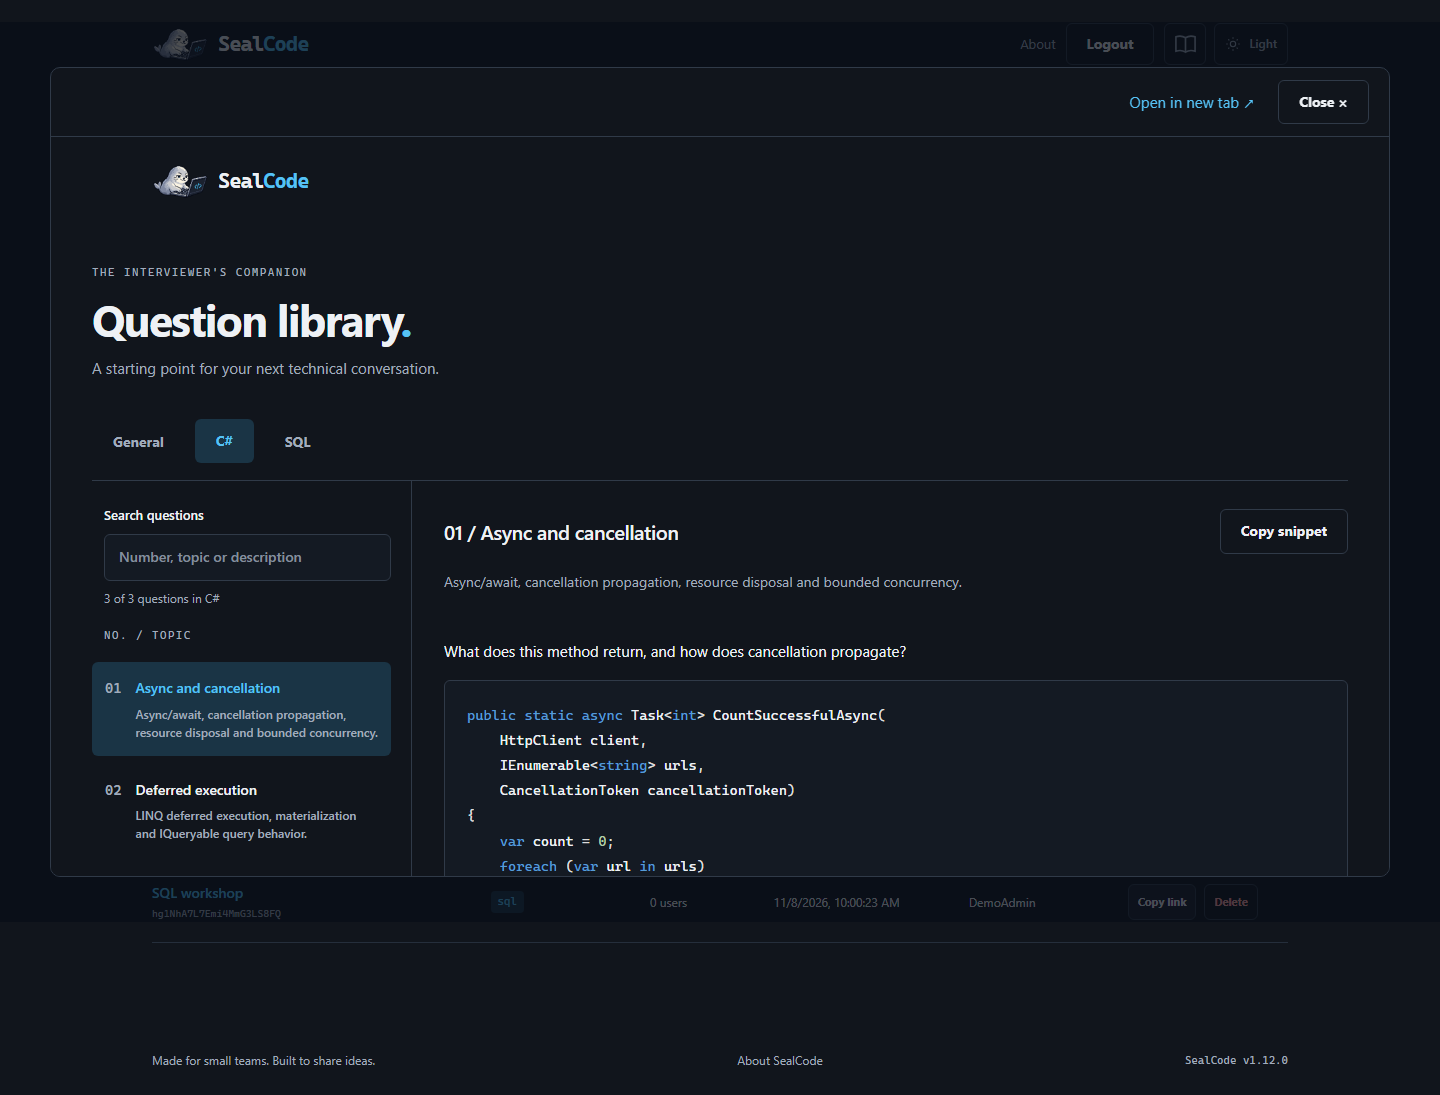
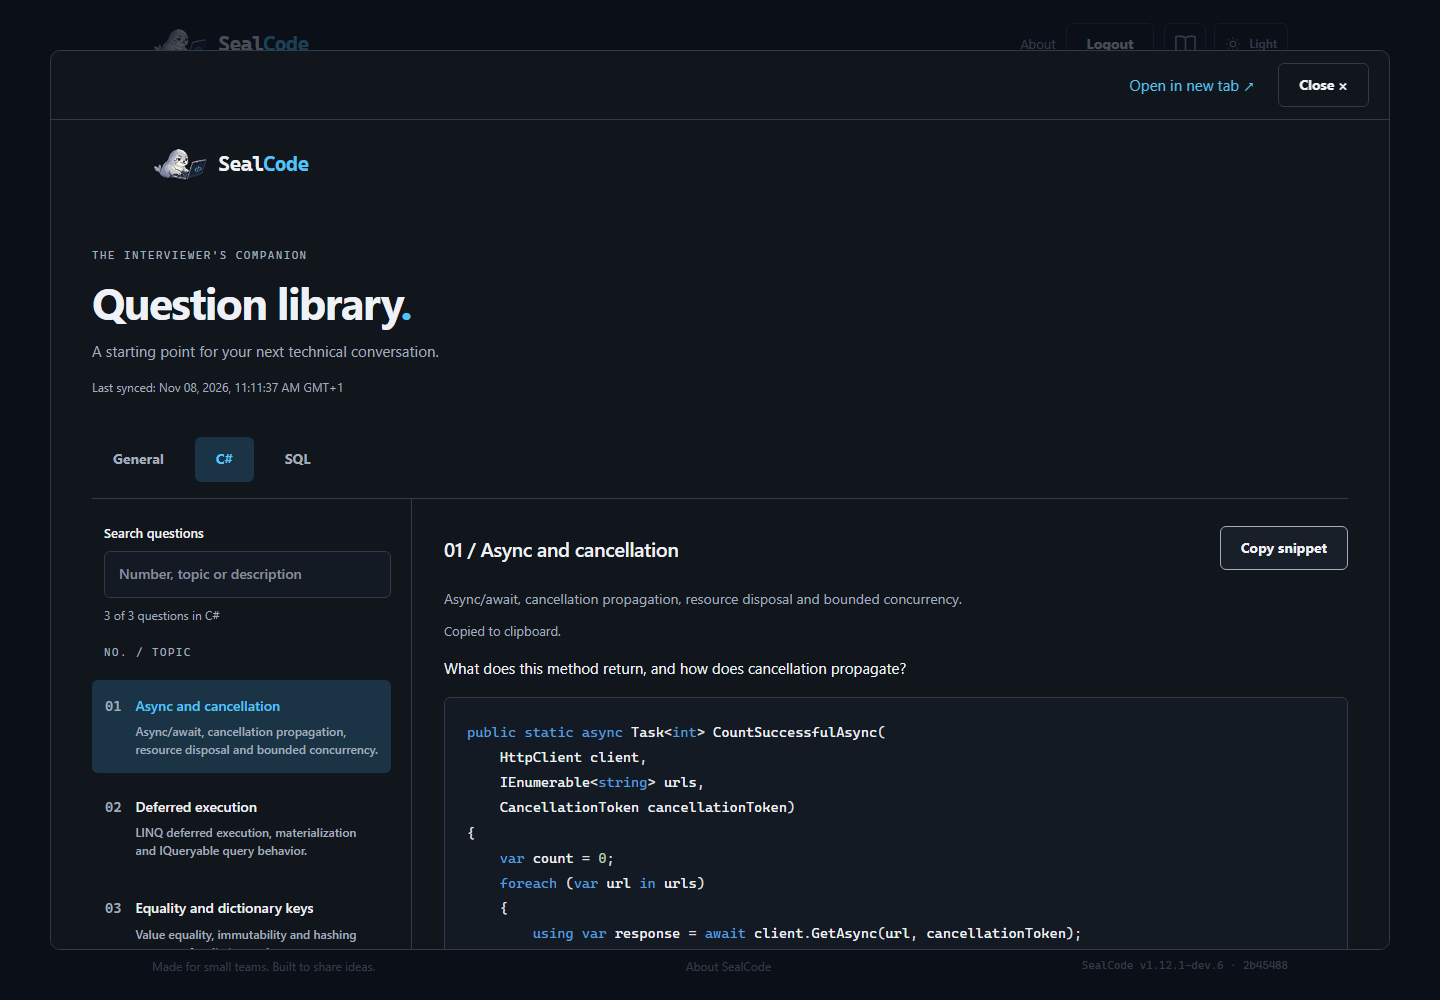
docs: explain catalog synchronization time and refresh screenshots

diff --git a/README.md b/README.md
@@ -110,6 +110,14 @@ Environment overrides include `Snippets__Enabled`, `Snippets__SuperAdminsOnly` a
 Database changes appear on the next 30-minute check. Existing sessions are checked on
 every library request. Guests cannot read the library, even with a room link.
 
+The library heading shows **Last synced**, with the date, time (including seconds)
+and time zone in the viewer's local settings. For files, this is when the portal
+finished its initial catalog load. For PostgreSQL, it is when the portal finished
+its last successful database check, even when the database timestamp was unchanged.
+It is the portal's synchronization time, not the content-edit timestamp in the database.
+Failed or canceled checks retain the previous time. Reopen or reload the library
+to see the latest synchronization time; opening it does not trigger a database query.
+
 The private `src/SealCode/Resources/Snippets/` folder is outside `wwwroot` and is copied
 alongside the application during build and publish. The implementation follows the solution layers:
 `Models/Snippets` owns immutable domain invariants, `Abstractions` defines
@@ -122,6 +130,10 @@ Both providers use the same domain models and HTTP contract. The resource JSON, 
 files have no static HTTP routes. Only the authenticated `/admin/snippets` page
 and `/admin/snippets/catalog` API expose the library to authorized admins; responses
 use `Cache-Control: no-store`.
+
+The catalog API returns its successful synchronization time as an ISO 8601
+`X-Snippets-Synced-At` response header alongside the existing category array.
+The library and time are captured together as one immutable snapshot.
 
 For the `File` provider, edit `Resources/Snippets/catalog.json`, using `catalog.schema.json` for
 editor validation, and add a UTF-8 `.md` file in the same folder. Each group has a
@@ -221,7 +233,7 @@ its own PostgreSQL service container; no deployment credentials are needed.
 
 | Popup from the admin panel | SQL library in a separate tab |
 | --- | --- |
-| ![Private C# question library popup above room management](docs/images/snippets-popup.png) | ![SQL question library with numbered topics, highlighted code and copy action](docs/images/snippets-tab.png) |
+| ![Private C# question library popup showing the last synchronization date and time](docs/images/snippets-popup.png) | ![SQL question library with its last synchronization time, numbered topics and highlighted code](docs/images/snippets-tab.png) |
 
 To run the library browser tests and refresh these two screenshots with disposable
 accounts and an isolated host:
@@ -716,7 +728,7 @@ These constraints reserve headroom beyond the doubled fallback threshold for in-
 
 The client build clears `wwwroot/assets` before writing the new bundle and chunks.
 All HTML references to images, favicons, stylesheets and scripts carry the release
-query string `?v=1.12.0`, so releases bypass previously cached resource URLs.
+query string `?v=1.12.1`, so releases bypass previously cached resource URLs.
 When releasing changed assets, bump this version in all `wwwroot/*.html` pages and the private
 `Resources/Snippets/library.html` page. Monaco workers inherit it from the room script URL. Admin modules are
 bundled too, so their shared imports use content-hashed chunk names.

diff --git a/docs/backend.md b/docs/backend.md
@@ -118,6 +118,14 @@ semaphore; HTTP readers never wait for database I/O. Failed or canceled refreshe
 leave both the library and its timestamp unchanged for retry at the next interval.
 Old immutable snapshots remain valid for in-flight readers.
 
+Each catalog publication also records the portal clock's completion time using
+the injected `TimeProvider`. Unchanged PostgreSQL checks publish a new timestamp
+while retaining the same immutable library; file refreshes perform no work and
+keep their initial timestamp. Failed or canceled checks publish neither data nor
+time. The catalog endpoint captures both from one `SnippetCatalogSnapshot` and
+returns the time in `X-Snippets-Synced-At`, preserving the category-array body.
+The library page formats it in the viewer's local time zone when opened.
+
 The SQL migration under `Persistence/Snippets/Migrations` is applied explicitly by
 an operator, never by the app. Categories and questions are manually maintained;
 statement triggers update a singleton timestamp for insert/update/delete/truncate.
